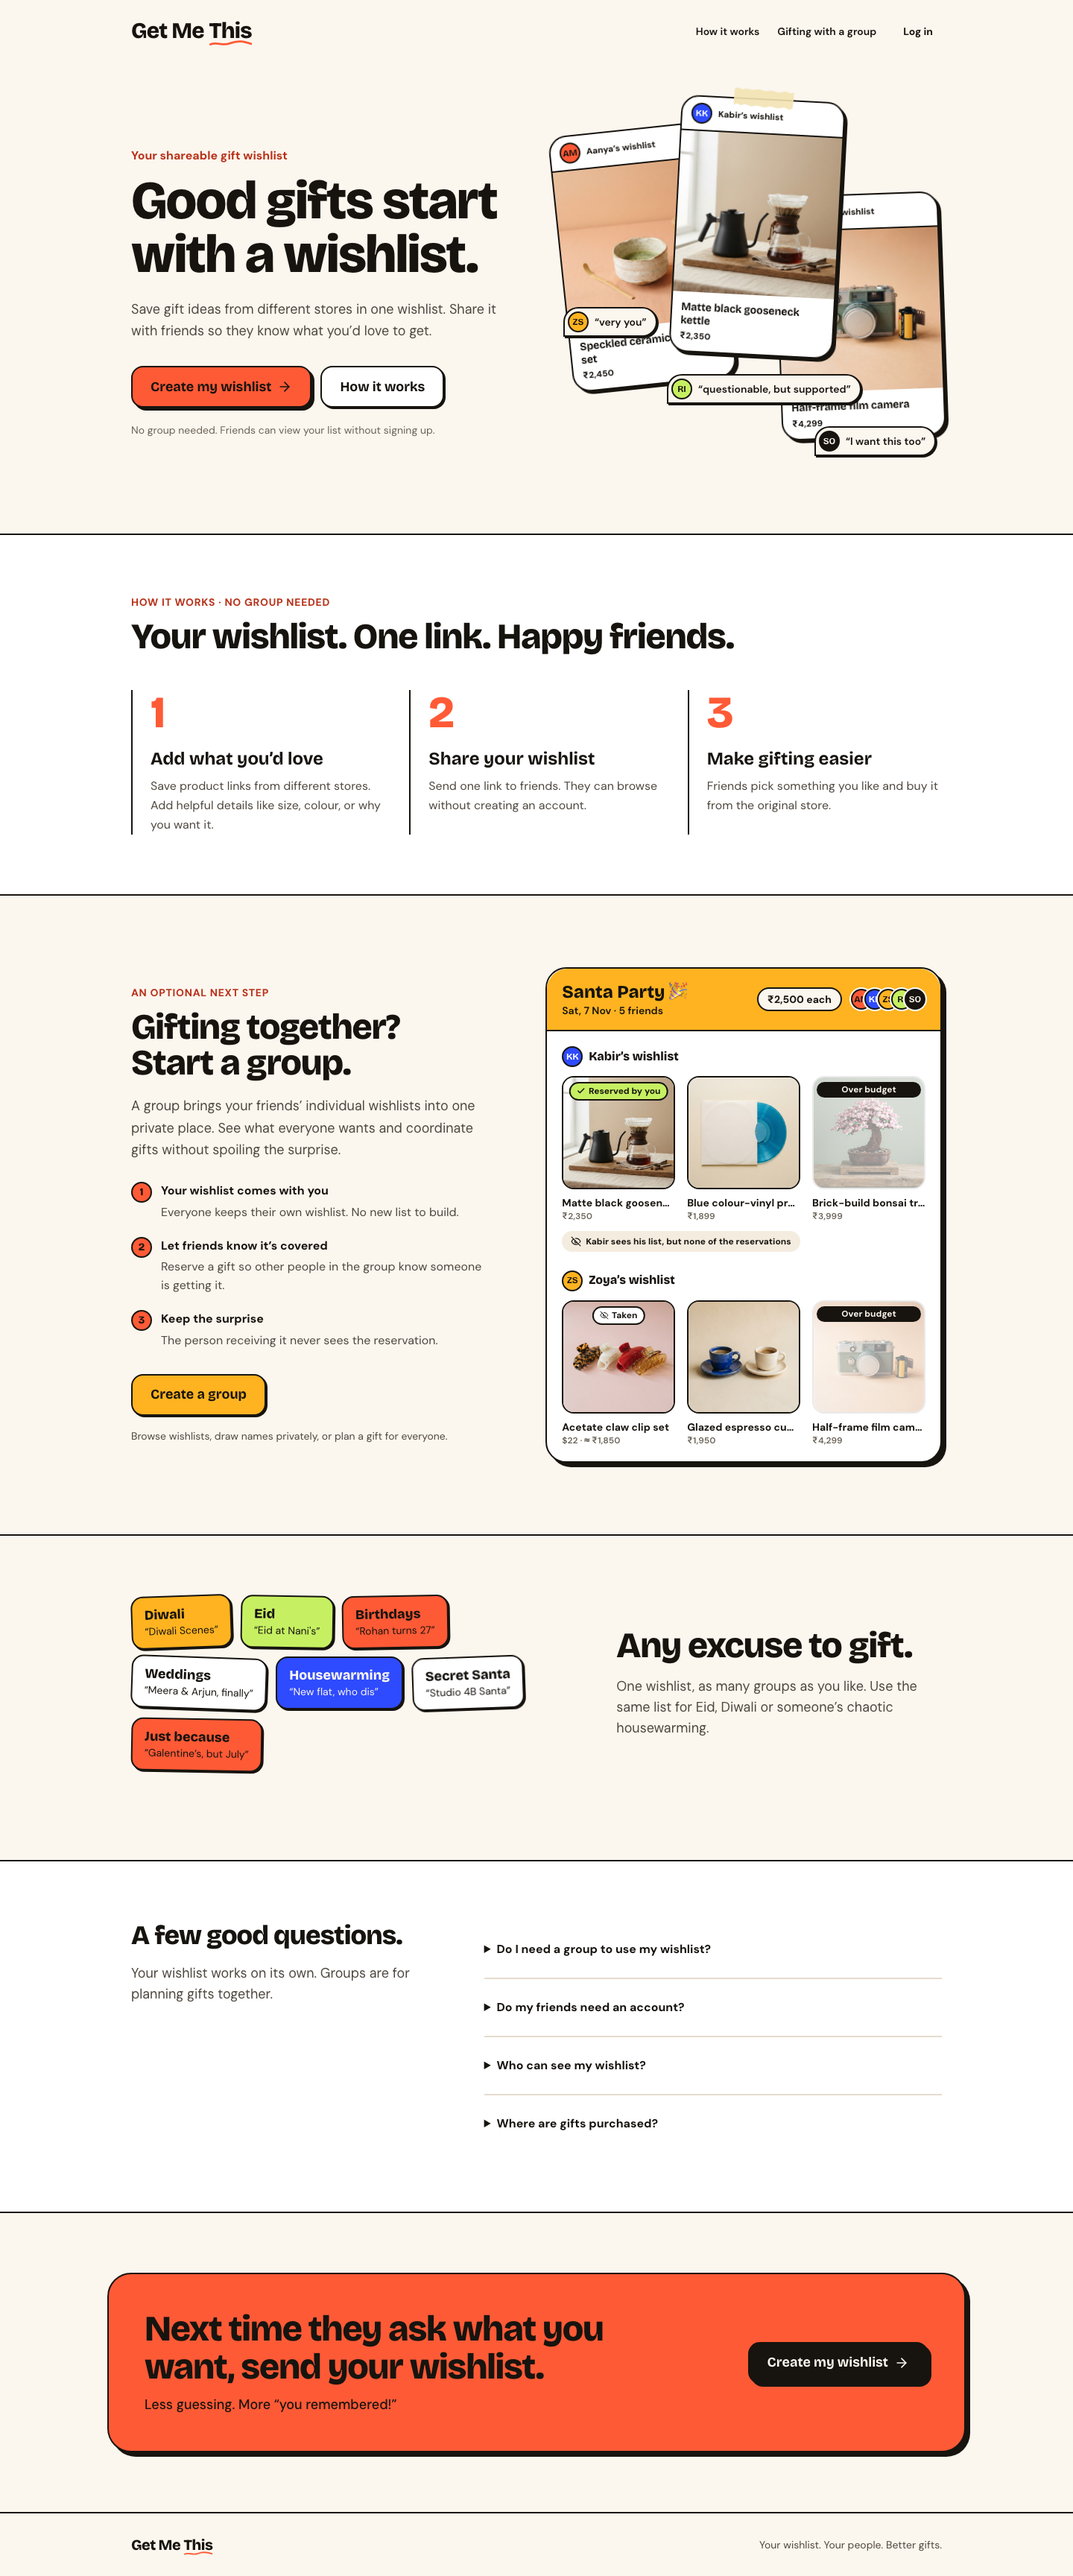
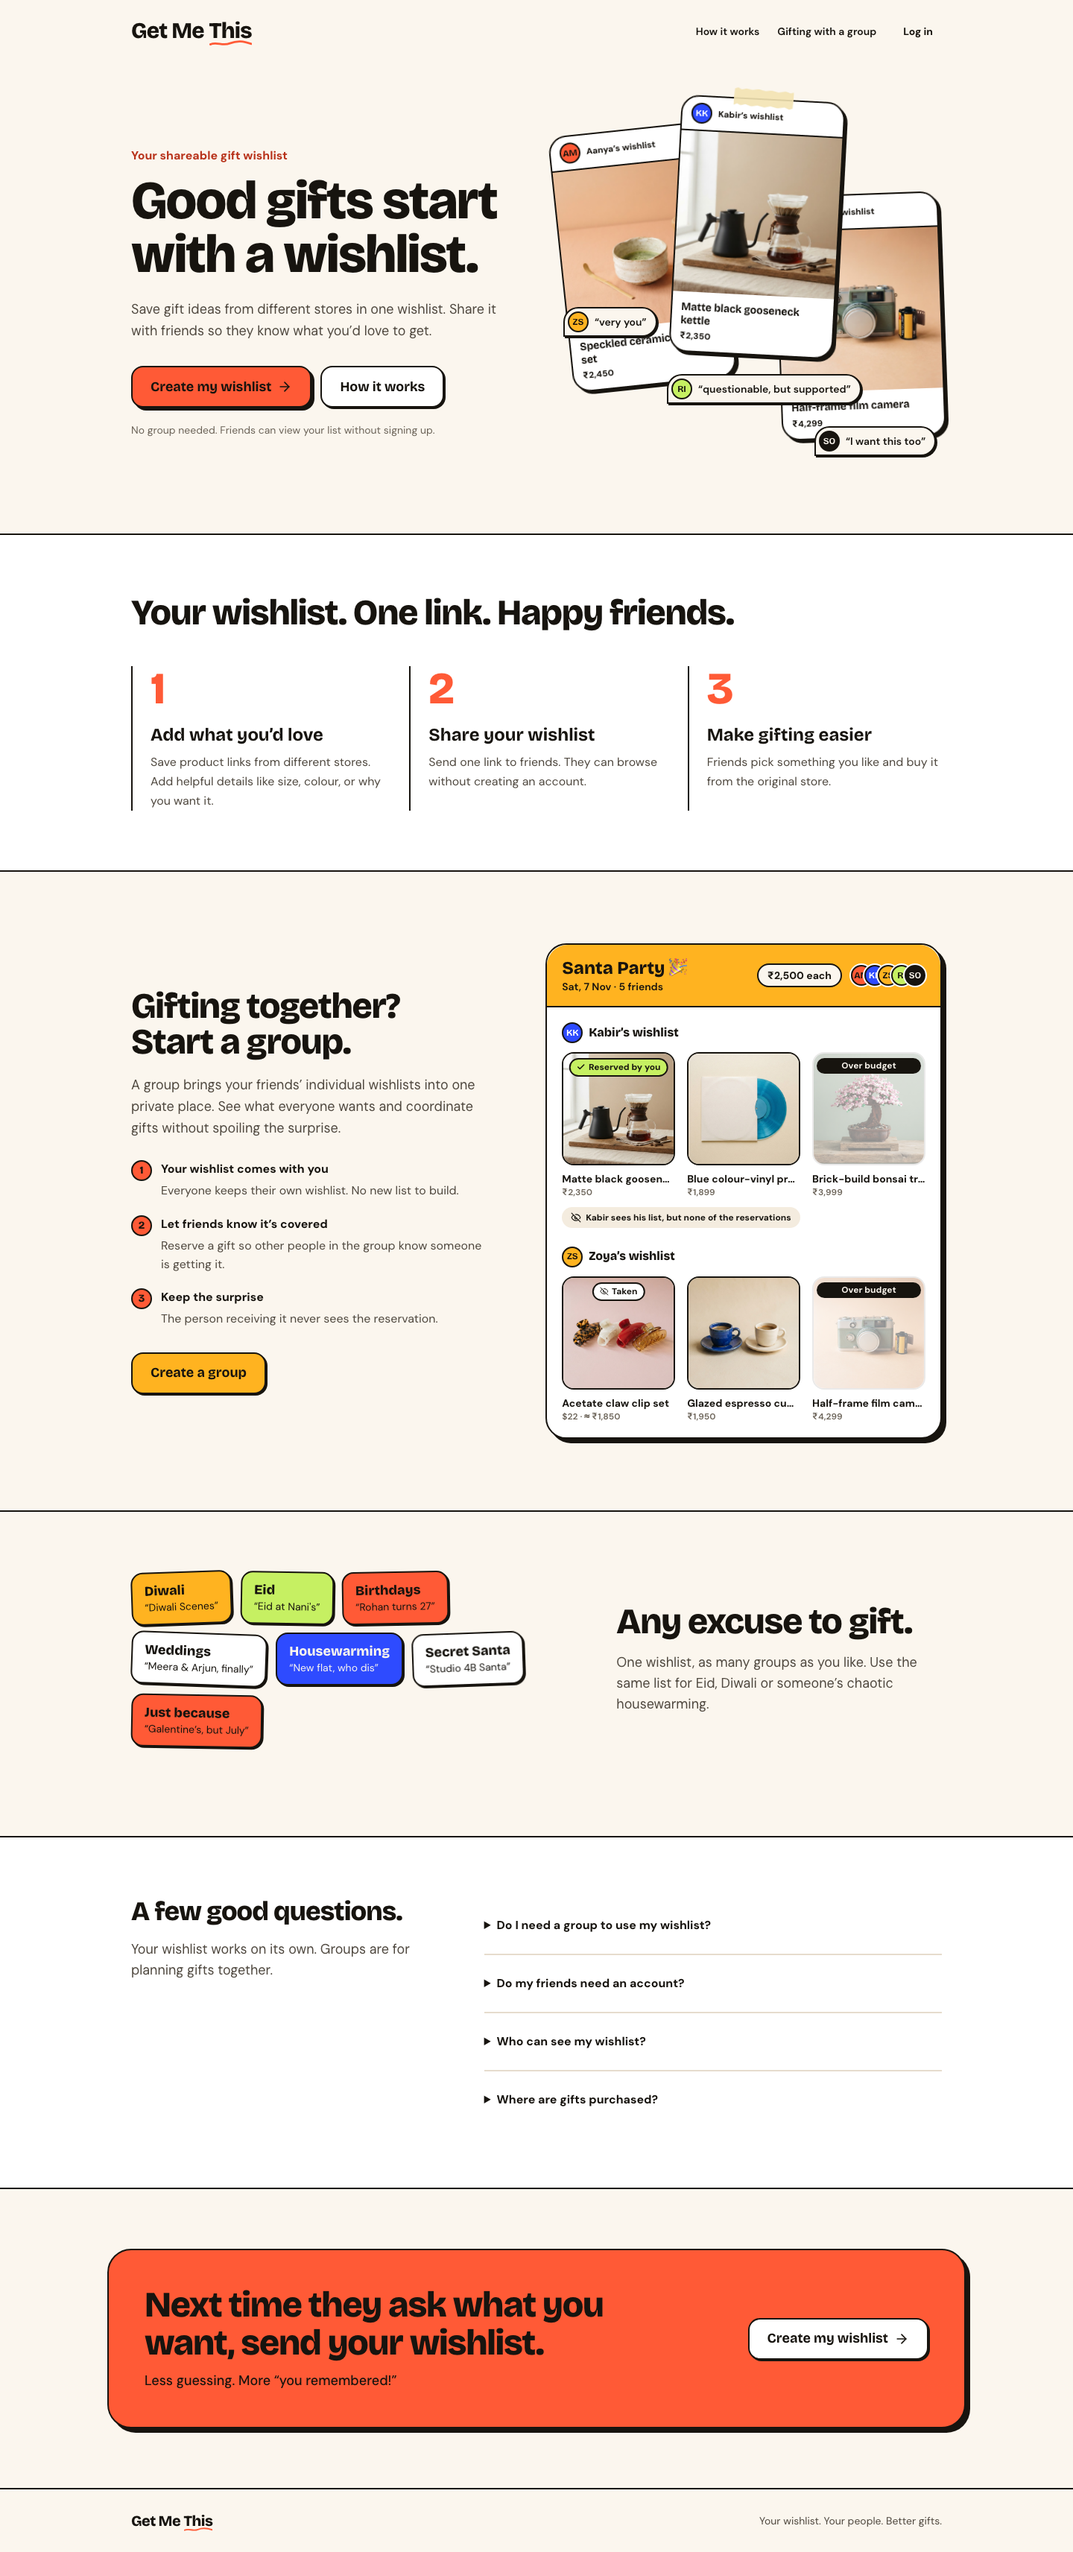
Simplify landing section copy and raise final wishlist CTA

diff --git a/src/landing/group-demo.tsx b/src/landing/group-demo.tsx
@@ -16,9 +16,6 @@ export function GroupDemoSection() {
     >
       <div className="grid items-center gap-12 lg:grid-cols-[1fr_1.15fr] lg:gap-16">
         <div>
-          <p className="mb-3 text-sm font-bold uppercase tracking-wider text-action-primary-strong">
-            An optional next step
-          </p>
           <h2
             id="groups-title"
             className="font-display text-4xl font-extrabold tracking-tight sm:text-5xl"
@@ -46,9 +43,6 @@ export function GroupDemoSection() {
               Create a group
             </CtaLink>
           </div>
-          <p className="mt-4 text-sm leading-relaxed text-content-secondary">
-            Browse wishlists, draw names privately, or plan a gift for everyone.
-          </p>
         </div>
         <div className="sm:pl-8 lg:pl-4">
           <GroupSnapshot />

diff --git a/src/landing/landing-page.tsx b/src/landing/landing-page.tsx
@@ -111,9 +111,6 @@ export function LandingPage({
           className="border-y-2 border-outline-strong bg-surface-raised"
         >
           <div className="mx-auto max-w-6xl px-5 py-20 sm:px-8">
-            <p className="mb-3 text-sm font-bold uppercase tracking-wider text-action-primary-strong">
-              How it works · no group needed
-            </p>
             <h2
               id="how-title"
               className="font-display text-4xl font-extrabold tracking-tight sm:text-5xl"
@@ -228,7 +225,7 @@ export function LandingPage({
             </div>
             <CtaLink
               href={startWishlistHref}
-              variant="contrast"
+              variant="subtle"
               size="lg"
               className="shrink-0"
             >

diff --git a/docs/delivery/evidence/landing-positioning-2026-10-04/README.md b/docs/delivery/evidence/landing-positioning-2026-10-04/README.md
@@ -6,6 +6,8 @@ The user approved the marketing review after new visitors could not understand h
 
 ## Acceptance criteria and evidence
 
+- [x] Remove the How it works eyebrow, optional-next-step eyebrow, and group-mode footnote. Give the final Create my wishlist CTA a light face with a visible dark bottom/right shadow and hover lift.
+
 - [x] Lead with a shareable individual wishlist. Primary action: **Create my wishlist**, preserving `/auth?intent=wishlist`.
 - [x] Explicitly say no group is needed and friends can view without signing up. How it works explains add → share → buy at the original store before introducing groups.
 - [x] Preserve the selected headline, supporting copy and new page structure while restoring the original hero collage: three overlapping product cards, tape, avatars, reaction bubbles and entrance motion. The restored illustration is decorative, not interactive.
@@ -24,6 +26,9 @@ Route `/`, anonymous session, fixed demo content, no overlays, desktop **1440×1
 - [Original before — mobile](before-mobile.png)
 - [Final after — desktop](after-desktop.png)
 - [Final after — mobile](after-mobile.png)
+- [How it works — desktop](how-desktop.png) / [mobile](how-mobile.png)
+- [Groups section — desktop](groups-section-desktop.png) / [mobile](groups-section-mobile.png)
+- [Final raised CTA — desktop](final-cta-desktop.png) / [mobile](final-cta-mobile.png)
 - [Final hero — desktop](hero-desktop.png)
 - [Final hero — mobile](hero-mobile.png)
 - [Restored group illustration — desktop](group-desktop.png)
@@ -38,6 +43,8 @@ Intermediate interactive-demo screenshots have been removed from the final evide
 These are review evidence, **not approved replacement golden screenshots**. No baseline files or manifest were changed. The landing still differs from the old group-first goldens, so a separate explicit baseline approval is required after human review.
 
 ## Final integrated verification
+
+After the final copy removals and CTA refinement, `pnpm verify` passed again: formatting, lint, types, all **154 files /1,512 tests**, and production build. Rendered checks at 1440×1000 and 390×844 confirmed all three removed lines are absent, the CTA retains `/auth?intent=wishlist`, its dark shadow extends 2px right/down, and hover lifts it 2px. Current full-page captures include these latest changes. Earlier verification history follows for context.
 
 Final screenshots use the integrated landing branch based on **ad2dfd7**, plus the border/column refinements committed with this evidence. It includes the approved landing changes, integrated CI fixes and brand/favicon/social assets. The coordinating agent built and served this branch on3300 with the actual local Supabase configuration. The server was not stopped or rebuilt during evidence collection.
 
